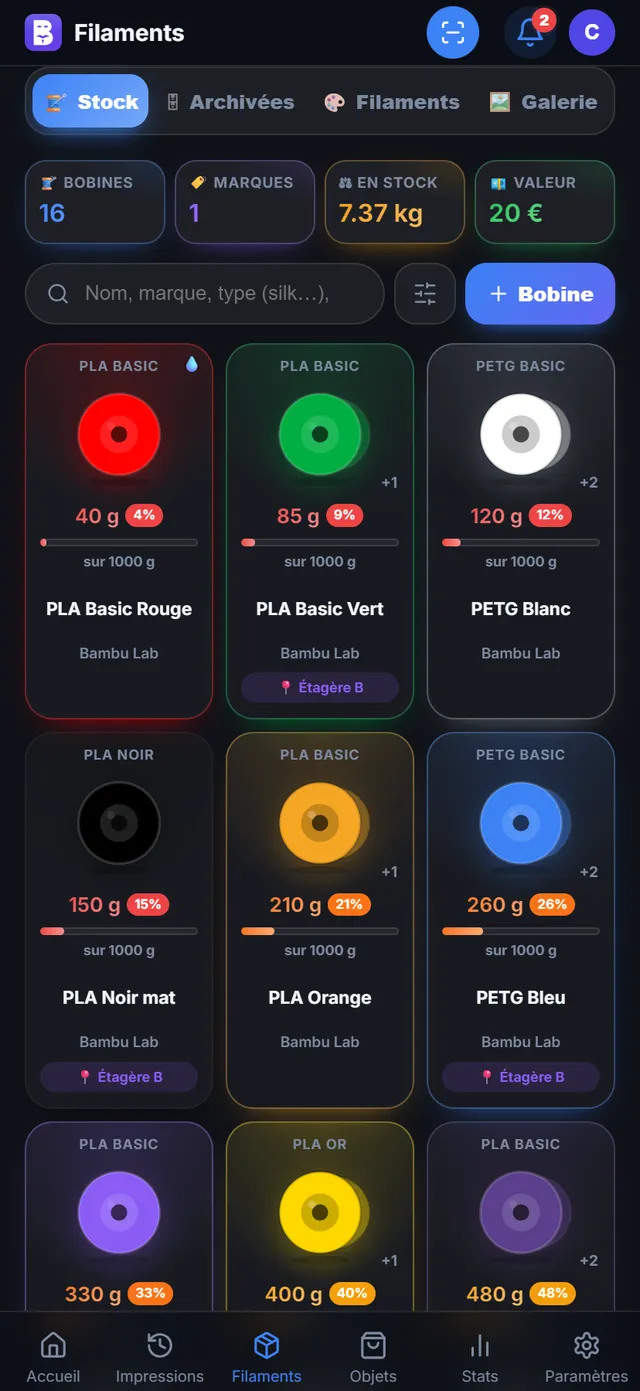
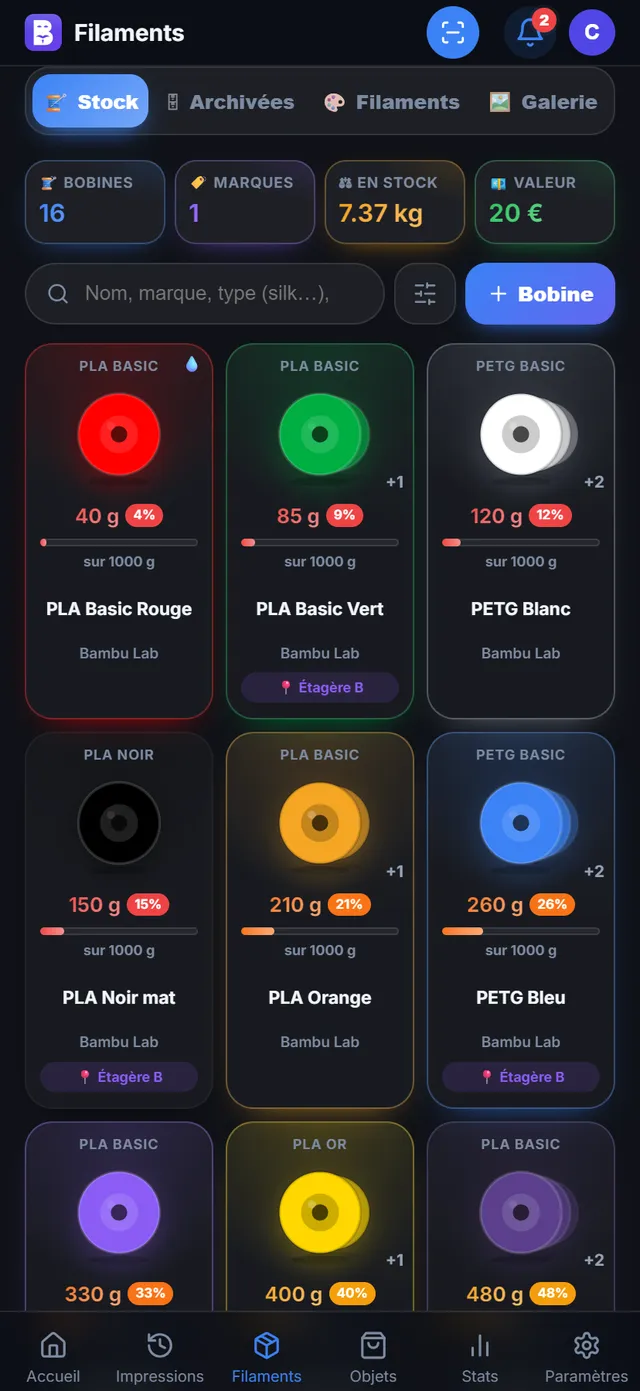
Bobines : l'ombre des autres bobines aussi en tête de fiche, et plus marquée
Une ombre derrière la bobine, deux à partir de deux autres bobines du même filament,
sur la carte comme dans la fiche ; « +N » plus lisible sur la carte. Guide mis à jour.

diff --git a/frontend/src/pages/Filaments.jsx b/frontend/src/pages/Filaments.jsx
@@ -840,12 +840,18 @@ function FSheet({ onClose, top = null, bottom = null, children, z = 1000 }) {
     </div>);
 }
 // la bobine en vedette : son dessin sur un fond de sa couleur, les pastilles, le nom, puis ce qu'on veut mettre dessous
-function FHero({ colors, type, color, chips, name, sub, children }) {
+function FHero({ colors, type, color, chips, name, sub, children, stack = 0 }) {
   return (
     <div style={{ position:"relative", overflow:"hidden", padding:"52px 18px 18px", display:"flex", alignItems:"center", gap:16, flexWrap:"wrap",
       background:`radial-gradient(circle at 18% 45%, ${color}55, transparent 60%), linear-gradient(135deg, ${color}26, transparent 70%), var(--surface2)` }}>
-      <span style={{ display:"inline-flex", flexShrink:0, filter:`drop-shadow(0 8px 18px ${color}66)` }}>
-        <SpoolSVG colors={colors} size={118} type={type}/></span>
+      <span style={{ position:"relative", display:"inline-flex", flexShrink:0, filter:`drop-shadow(0 8px 18px ${color}66)`,
+        marginRight: stack > 0 ? (stack > 1 ? 30 : 18) : 0 }}>
+        {/* d'autres bobines du meme filament en stock : leurs ombres, decalees derriere (deux au plus) */}
+        {stack > 1 && <span aria-hidden="true" style={{ position:"absolute", top:10, left:34, opacity:0.35 }}>
+          <SpoolSVG colors={colors} size={100} type={type}/></span>}
+        {stack > 0 && <span aria-hidden="true" style={{ position:"absolute", top:5, left:18, opacity:0.6 }}>
+          <SpoolSVG colors={colors} size={108} type={type}/></span>}
+        <span style={{ position:"relative", display:"inline-flex" }}><SpoolSVG colors={colors} size={118} type={type}/></span></span>
       <div style={{ flex:"1 1 190px", minWidth:0, display:"flex", flexDirection:"column", gap:6 }}>
         {chips.filter(Boolean).length > 0 && <div style={{ display:"flex", gap:5, flexWrap:"wrap" }}>
           {chips.filter(Boolean).map((c, k) => <React.Fragment key={k}>{c}</React.Fragment>)}</div>}
@@ -1014,6 +1020,7 @@ export function SpoolBottomSheet({ spool, onClose, onArchive, onDelete }) {
         <button onClick={menu} aria-label="Plus d'actions" style={{ ...fBtn, width:48, flex:"0 0 auto" }}>⋯</button>
       </>}>
       <FHero colors={colorsList} type={spool.filament_multicolor_type} color={main} name={name}
+        stack={spool.archived ? 0 : (spool.sibling_count || 0)}
         chips={[fChip(`#${spool.id}`, "#64748B"), spool.archived && fChip("Archivée", "#94a3b8"),
           spool.location && fChip(`📍 ${spool.location}`, "#8B5CF6"),
           !spool.archived && spool.sibling_count > 0 && fChip(`🧵 +${spool.sibling_count} en stock${spool.sibling_weight_g ? ` · ${fmtStock(spool.sibling_weight_g)}` : ""}`, "#22C55E"),
@@ -1302,13 +1309,15 @@ function SpoolCard({ s, colorsList, onClick, menu }) {
       <div style={{ position:"relative", display:"flex", justifyContent:"center", margin:"3px 0 0", filter:`drop-shadow(0 6px 10px ${main}55)` }}>
         {/* d'autres bobines du meme filament en stock : une bobine estompee derriere, et leur nombre en discret
             (pas dans les archives : elles ne sont plus en stock) */}
-        {more > 0 && <span aria-hidden="true" style={{ position:"absolute", top:4, left:"calc(50% - 22px)", opacity:0.35 }}>
-          <SpoolSVG colors={colorsList} empty={false} size={62} type={s.filament_multicolor_type}/></span>}
+        {more > 1 && <span aria-hidden="true" style={{ position:"absolute", top:7, left:"calc(50% - 12px)", opacity:0.3 }}>
+          <SpoolSVG colors={colorsList} empty={false} size={56} type={s.filament_multicolor_type}/></span>}
+        {more > 0 && <span aria-hidden="true" style={{ position:"absolute", top:3, left:"calc(50% - 24px)", opacity:0.6 }}>
+          <SpoolSVG colors={colorsList} empty={false} size={64} type={s.filament_multicolor_type}/></span>}
         <span style={{ position:"relative" }}><SpoolSVG colors={colorsList} empty={false} size={70}
           type={s.filament_multicolor_type}/></span>
         {more > 0 && <span data-tip={`${more} autre${more > 1 ? "s" : ""} bobine${more > 1 ? "s" : ""} de ce filament en stock`
           + (s.sibling_weight_g ? ` (${fmtStock(s.sibling_weight_g)})` : "")}
-          style={{ position:"absolute", right:"calc(50% - 50px)", bottom:2, fontSize:9.5, fontWeight:800, color:"var(--muted)" }}>+{more}</span>}
+          style={{ position:"absolute", right:"calc(50% - 54px)", bottom:2, fontSize:10.5, fontWeight:900, color:"var(--text2)" }}>+{more}</span>}
       </div>
 
       <div style={{ padding:"2px 9px 10px", display:"flex", flexDirection:"column", gap:5 }}>

diff --git a/backend/guide/pages/filaments.html b/backend/guide/pages/filaments.html
@@ -52,7 +52,7 @@
     <ul>
       <li>une carte teintée de la couleur du filament (grise pour un filament blanc ou très clair, pour qu'il reste visible) ;</li>
       <li>le sous-type en petites capitales (« PLA BASIC »), et 💧 en haut à droite si la bobine est à sécher ;</li>
-      <li>quand d'autres bobines de ce filament sont en stock, une bobine estompée derrière la première et un discret « +2 » (leur poids au survol) ; rien dans les archives ;</li>
+      <li>quand d'autres bobines de ce filament sont en stock, leur ombre derrière la première (une, ou deux à partir de deux autres bobines) et « +2 » (leur poids au survol) ; rien dans les archives ;</li>
       <li>le dessin d'une bobine à la couleur du filament (damier derrière si le filament est translucide) ;</li>
       <li>le poids restant en couleur (« 760 g », ou « — » s'il est inconnu) et son pourcentage en pastille, puis une jauge : verte au-dessus de 60 %, orange, orange foncé, puis rouge sous 15 % ; dessous « sur 1000 g » ;</li>
       <li>le nom, la marque, et l'emplacement en pastille « 📍 Étagère B » quand il est connu.</li>
@@ -138,7 +138,7 @@
     <h4>En haut : la bobine en vedette</h4>
     <p>Le dessin de la bobine sur un fond de sa couleur, puis des pastilles :</p>
     <ul>
-      <li>son numéro (<span class="ui">#26</span>), <span class="ui">Archivée</span> si elle l'est, l'emplacement (<span class="ui">📍 AMS-B slot 1</span> ou <span class="ui">📍 Étagère B</span>), et <span class="ui">🧵 +2 en stock · 1,50 kg</span> en vert quand d'autres bobines de ce filament sont en stock (pas pour une bobine archivée) ;</li>
+      <li>son numéro (<span class="ui">#26</span>), <span class="ui">Archivée</span> si elle l'est, l'emplacement (<span class="ui">📍 AMS-B slot 1</span> ou <span class="ui">📍 Étagère B</span>), et <span class="ui">🧵 +2 en stock · 1,50 kg</span> en vert quand d'autres bobines de ce filament sont en stock (pas pour une bobine archivée) ; leur ombre se dessine alors derrière la bobine de l'en-tête, comme sur la carte ;</li>
       <li>un badge de séchage quand il le faut : <span class="ui">Séchage nécessaire</span> (bleu ciel, jamais séchée ou délai dépassé), <span class="ui">Séchage dans 12 j</span> (orange, délai atteint dans moins de 30 jours) ou <span class="ui">Séchage aujourd'hui</span>. Pour un admin, ce badge porte un petit soleil : le toucher ouvre <a href="#filaments-sechee">Séchée aujourd'hui</a> ;</li>
       <li><span class="ui">Échantillon</span> (vert) si la plaquette du nuancier existe, sinon <span class="ui">Sans échantillon</span> (gris).</li>
     </ul>
